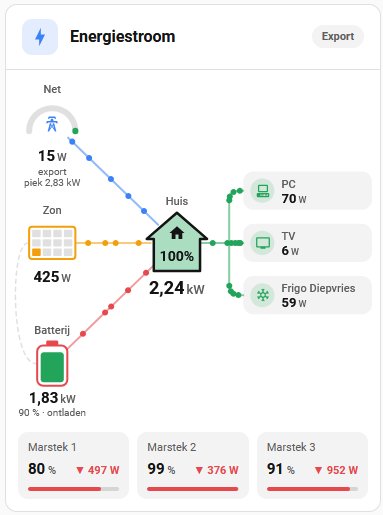
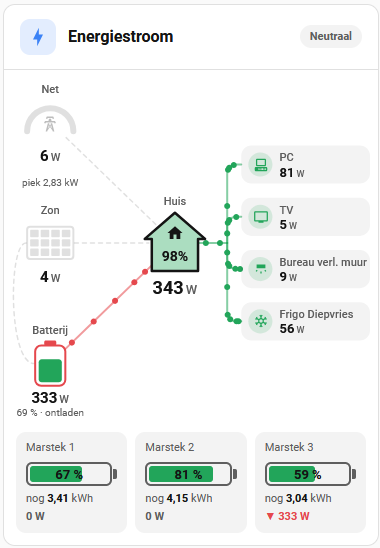
Translations nl/en/fr/de with language option, new screenshot v4.5.0

diff --git a/power-flow-card.js b/power-flow-card.js
@@ -1,5 +1,5 @@
 /**
- * Home Energy Flow Card v4.4.0   (vroeger: Power Flow Card)
+ * Home Energy Flow Card v4.5.0   (vroeger: Power Flow Card)
  *
  * Layout:
  *   Kop: icoon, titel, ondertitel met wat er gebeurt, pil met de nettoestand
@@ -14,6 +14,7 @@
  *
  * type: custom:home-energy-flow-card     # custom:power-flow-card werkt ook nog
  * title: Energiestroom
+ * language: fr                           # optioneel; nl / en / fr / de, standaard de taal van HA
  * show_summary: true                     # optioneel; korte samenvatting onder de titel (standaard uit)
  * solar_entity: sensor.solar_power
  * grid_entity: sensor.grid_power
@@ -42,7 +43,7 @@
  *     icon: mdi:desktop-classic
  */
 
-const PFC_VERSION = '4.4.0';
+const PFC_VERSION = '4.5.0';
 const PFC_WARN = '#f97316';       // net-afname nadert de piekgrens
 const PFC_OVER = '#dc2626';       // net-afname boven de piekgrens
 const PFC_BAT_LOW = 20, PFC_BAT_MID = 50;   // battery_style: battery → rood / oranje / groen
@@ -50,6 +51,35 @@ const PFC_BAT_W = 30, PFC_BAT_H = 40;       // batterijvorm (viewBox-eenheden), 
 const PFC_PANEL_W = 46, PFC_PANEL_H = 32, PFC_PANEL_COLS = 4, PFC_PANEL_ROWS = 3;   // solar_style: panel
 const PFC_GAUGE_R = 23;                     // grid_style: gauge
 const PFC_GREEN = '#22a55a';
+
+// Teksten per taal. De kaart volgt de taal van HA (of `language:`), anders Engels.
+const PFC_I18N = {
+  nl: { title: 'Energiestroom', solar: 'Zon', grid: 'Net', battery: 'Batterij', home: 'Huis',
+        import: 'Import', export: 'Export', neutral: 'Neutraal', peak_warn: 'Bijna piekgrens', peak_over: 'Boven piekgrens',
+        imp: 'import', exp: 'export', peak: 'piek', limit: 'grens',
+        charging: 'laden', discharging: 'ontladen', idle: 'rust', left: 'nog',
+        sum_solar: 'zon', sum_dis: 'batterij ontlaadt', sum_cha: 'batterij laadt', sum_grid: 'net', no_power: 'Geen stroom',
+        self_share: 'deel van het verbruik uit eigen zon en batterij', no_config: 'Geen configuratie' },
+  en: { title: 'Energy flow', solar: 'Solar', grid: 'Grid', battery: 'Battery', home: 'Home',
+        import: 'Import', export: 'Export', neutral: 'Neutral', peak_warn: 'Near peak limit', peak_over: 'Above peak limit',
+        imp: 'import', exp: 'export', peak: 'peak', limit: 'limit',
+        charging: 'charging', discharging: 'discharging', idle: 'idle', left: '',
+        sum_solar: 'solar', sum_dis: 'battery discharging', sum_cha: 'battery charging', sum_grid: 'grid', no_power: 'No power',
+        self_share: 'share of consumption from own solar and battery', no_config: 'No configuration' },
+  fr: { title: "Flux d'énergie", solar: 'Solaire', grid: 'Réseau', battery: 'Batterie', home: 'Maison',
+        import: 'Import', export: 'Export', neutral: 'Neutre', peak_warn: 'Proche du pic', peak_over: 'Au-dessus du pic',
+        imp: 'import', exp: 'export', peak: 'pic', limit: 'limite',
+        charging: 'charge', discharging: 'décharge', idle: 'repos', left: 'encore',
+        sum_solar: 'solaire', sum_dis: 'batterie se décharge', sum_cha: 'batterie se charge', sum_grid: 'réseau', no_power: 'Pas de courant',
+        self_share: 'part de la consommation venant du solaire et de la batterie', no_config: 'Aucune configuration' },
+  de: { title: 'Energiefluss', solar: 'Solar', grid: 'Netz', battery: 'Batterie', home: 'Haus',
+        import: 'Bezug', export: 'Einspeisung', neutral: 'Neutral', peak_warn: 'Nahe Spitzenlast', peak_over: 'Über Spitzenlast',
+        imp: 'Bezug', exp: 'Einspeisung', peak: 'Spitze', limit: 'Grenze',
+        charging: 'lädt', discharging: 'entlädt', idle: 'Ruhe', left: 'noch',
+        sum_solar: 'Solar', sum_dis: 'Batterie entlädt', sum_cha: 'Batterie lädt', sum_grid: 'Netz', no_power: 'Kein Strom',
+        self_share: 'Anteil des Verbrauchs aus eigener Solaranlage und Batterie', no_config: 'Keine Konfiguration' },
+};
+const pfcTaal = (l) => { l = String(l || '').toLowerCase().split(/[-_]/)[0]; return PFC_I18N[l] ? l : 'en'; };
 const PFC_CONSUMER_MIN_W = 5;     // een verbruiker telt als "aan" boven deze waarde
 const PFC_SPAWN_MS       = 420;   // om de hoeveel ms er nieuwe stippen vertrekken
 const PFC_POWER_UNITS    = { w: 1, kw: 1000, mw: 1e6 };
@@ -107,7 +137,7 @@ class HomeEnergyFlowCard extends HTMLElement {
   }
 
   setConfig(cfg) {
-    if (!cfg) throw new Error('Geen configuratie');
+    if (!cfg) throw new Error(PFC_I18N[this._taal()].no_config);
     const list = (v) => Array.isArray(v) ? v.filter(Boolean) : null;
     const num  = (v, d) => { const n = parseFloat(v); return isNaN(n) ? d : n; };
     const col  = cfg.colors || {};
@@ -141,7 +171,6 @@ class HomeEnergyFlowCard extends HTMLElement {
       peak_limit_entity: cfg.peak_limit_entity || null,
       peak_limit:        num(cfg.peak_limit, 0) || null,
       peak_warn_percent: Math.max(1, num(cfg.peak_warn_percent, 90)),
-      title:  cfg.title === false ? null : (cfg.title || 'Energiestroom'),
       icon:   cfg.icon || 'mdi:lightning-bolt',
       show_summary: cfg.show_summary === true,
       debounce_seconds: Math.max(0, num(cfg.debounce_seconds, 8)),
@@ -157,13 +186,10 @@ class HomeEnergyFlowCard extends HTMLElement {
           }))
         : [],
       colors,
-      labels: {
-        solar:   lab.solar   || 'Zon',
-        grid:    lab.grid    || 'Net',
-        battery: lab.battery || 'Batterij',
-        home:    lab.home    || 'Huis',
-      },
+      language: cfg.language || null,
     };
+    this._ruw = { title: cfg.title, labels: lab };
+    this._zetTaal();
     const c = this._cfg;
     this._entityIds = [
       c.solar_entity, c.grid_entity, c.home_entity, c.battery_entity, c.battery_soc_entity,
@@ -179,6 +205,12 @@ class HomeEnergyFlowCard extends HTMLElement {
 
   set hass(h) {
     this._hass = h;
+    // Taal van HA pas nu gekend (of gewijzigd): opnieuw tekenen in die taal.
+    if (this._cfg && !this._cfg.language && this._taal() !== this._lang) {
+      this._zetTaal();
+      this._seen = null;
+      this._buildDOM();
+    }
     // HA roept dit aan bij élke statuswijziging in het hele systeem: alleen werken als
     // één van onze sensoren veranderde.
     if (this._entityIds && this._seen) {
@@ -187,6 +219,27 @@ class HomeEnergyFlowCard extends HTMLElement {
     }
     if (this._entityIds) this._seen = this._entityIds.map(id => h.states[id]);
     this._updateData();
+  }
+
+  // ── Taal ───────────────────────────────────────────────────────────────────
+  _taal() {
+    const h = this._hass;
+    return pfcTaal((this._cfg && this._cfg.language)
+      || (h && ((h.locale && h.locale.language) || h.language))
+      || (typeof document !== 'undefined' && document.documentElement.lang)
+      || (typeof navigator !== 'undefined' && navigator.language));
+  }
+
+  // Titel en namen in de gekozen taal; eigen `title`/`labels` gaan altijd voor.
+  _zetTaal() {
+    this._lang = this._taal();
+    const T = this._T = PFC_I18N[this._lang];
+    const r = this._ruw, lab = r.labels;
+    this._cfg.title = r.title === false ? null : (r.title || T.title);
+    this._cfg.labels = {
+      solar: lab.solar || T.solar, grid: lab.grid || T.grid,
+      battery: lab.battery || T.battery, home: lab.home || T.home,
+    };
   }
 
   // ── Sensor helpers ─────────────────────────────────────────────────────────
@@ -531,7 +584,7 @@ class HomeEnergyFlowCard extends HTMLElement {
         omtrek.style.stroke = c.home;
         g.appendChild(omtrek);
         const pct = pfcEl('text', { x, y: y + 18, 'text-anchor': 'middle', class: 'huis-pct' }, '');
-        pct.appendChild(pfcEl('title', {}, 'deel van het verbruik uit eigen zon en batterij'));
+        pct.appendChild(pfcEl('title', {}, this._T.self_share));
         g.appendChild(pct);
         this._E.HUIS = { fill, pct, top: y - 30, bodem: y + 28 };
         icon('mdi:home', x, y - 9, 18, c.home);
@@ -696,7 +749,8 @@ class HomeEnergyFlowCard extends HTMLElement {
     state('solar', D.solar >= th);
 
     put(V.grid, D.gridRaw === null ? null : Math.abs(D.gridRaw));
-    if (S.grid) S.grid.textContent = D.gridRaw === null ? '' : D.imp >= th ? 'import' : D.exp >= th ? 'export' : '';
+    const T = this._T;
+    if (S.grid) S.grid.textContent = D.gridRaw === null ? '' : D.imp >= th ? T.imp : D.exp >= th ? T.exp : '';
     // Piekgrens: Net (cirkel, icoon, lijn en stippen) kleurt oranje of rood
     const gridCol = D.peakLevel === 'over' ? PFC_OVER : D.peakLevel === 'warn' ? PFC_WARN : cfg.colors.grid;
     if (E.N.grid) E.N.grid.col = gridCol;
@@ -704,15 +758,15 @@ class HomeEnergyFlowCard extends HTMLElement {
     this._gridCol = gridCol;
     state('grid', D.imp >= th || D.exp >= th);
     if (S.peak) {
-      S.peak.textContent = D.peak !== null ? 'piek ' + this._fmt(D.peak)
-                         : D.limit ? 'grens ' + this._fmt(D.limit) : '';
+      S.peak.textContent = D.peak !== null ? T.peak + ' ' + this._fmt(D.peak)
+                         : D.limit ? T.limit + ' ' + this._fmt(D.limit) : '';
       S.peak.style.fill = D.peakLevel ? gridCol : '';
     }
 
     put(V.bat, D.batRaw === null ? null : Math.abs(D.batRaw));
     if (S.bat) {
       const soc  = D.soc === null ? '' : Math.round(D.soc) + ' %';
-      const mode = D.dis >= th ? 'ontladen' : D.cha >= th ? 'laden' : '';
+      const mode = D.dis >= th ? T.discharging : D.cha >= th ? T.charging : '';
       S.bat.textContent = [soc, mode].filter(Boolean).join(' · ');
     }
     if (E.I.bat) {
@@ -765,31 +819,31 @@ class HomeEnergyFlowCard extends HTMLElement {
       const mode = d.p === null ? '' : d.p >= th ? 'dis' : d.p <= -th ? 'cha' : '';
       b.w.className = 'bat-w ' + mode;
       b.w.textContent = d.p === null ? '–' : (mode === 'dis' ? '▼ ' : mode === 'cha' ? '▲ ' : '') + this._fmt(Math.abs(d.p));
-      b.w.title = mode === 'dis' ? 'ontladen' : mode === 'cha' ? 'laden' : 'rust';
+      b.w.title = mode === 'dis' ? T.discharging : mode === 'cha' ? T.charging : T.idle;
       const soc = d.soc === null ? 0 : Math.max(0, Math.min(100, d.soc));
       b.bar.style.width = soc + '%';
       b.bar.style.background = d.soc === null ? '' : soc < PFC_BAT_LOW ? PFC_OVER : soc < PFC_BAT_MID ? '#f59e0b' : PFC_GREEN;
       b.kwh.style.display = d.kwh === null || d.kwh === undefined ? 'none' : '';
-      if (d.kwh !== null && d.kwh !== undefined) b.kwh.innerHTML = `nog <b>${this._nf(2).format(d.kwh)}</b> kWh`;
+      if (d.kwh !== null && d.kwh !== undefined) b.kwh.innerHTML = (T.left ? T.left + ' ' : '') + `<b>${this._nf(2).format(d.kwh)}</b> kWh`;
     });
 
     // ── Kop: wat gebeurt er? ──
     if (E.sub) {
       const parts = [];
-      if (D.solar >= th) parts.push('zon ' + this._fmt(D.solar));
-      if (D.dis >= th) parts.push('batterij ontlaadt');
-      else if (D.cha >= th) parts.push('batterij laadt');
+      if (D.solar >= th) parts.push(T.sum_solar + ' ' + this._fmt(D.solar));
+      if (D.dis >= th) parts.push(T.sum_dis);
+      else if (D.cha >= th) parts.push(T.sum_cha);
       // Richting (import/export) staat al in de pil, dus kort houden.
-      if (D.imp >= th) parts.push('net ' + this._fmt(D.imp));
-      else if (D.exp >= th) parts.push('net ' + this._fmt(D.exp));
-      let s = parts.join(' · ') || 'Geen stroom';
+      if (D.imp >= th) parts.push(T.sum_grid + ' ' + this._fmt(D.imp));
+      else if (D.exp >= th) parts.push(T.sum_grid + ' ' + this._fmt(D.exp));
+      let s = parts.join(' · ') || T.no_power;
       E.sub.textContent = s.charAt(0).toUpperCase() + s.slice(1);
       E.sub.title = E.sub.textContent;   // volledige tekst als het afgekapt wordt
     }
     if (E.pil) {
       E.pil.textContent = !cfg.grid_entity || D.gridRaw === null ? ''
-        : D.peakLevel === 'over' ? 'Boven piekgrens' : D.peakLevel === 'warn' ? 'Bijna piekgrens'
-        : D.imp >= th ? 'Import' : D.exp >= th ? 'Export' : 'Neutraal';
+        : D.peakLevel === 'over' ? T.peak_over : D.peakLevel === 'warn' ? T.peak_warn
+        : D.imp >= th ? T.import : D.exp >= th ? T.export : T.neutral;
       const pc = D.peakLevel === 'over' ? PFC_OVER : D.peakLevel === 'warn' ? PFC_WARN : null;
       E.pil.style.background = pc ? `color-mix(in srgb, ${pc} 15%, transparent)` : '';
       E.pil.style.color = pc || '';

diff --git a/README.md b/README.md
@@ -1,6 +1,6 @@
 # Home Energy Flow Card
 
-[![Version](https://img.shields.io/badge/version-4.4.0-blue.svg)](https://github.com/Toolifybe/ha-home-energy-flow-card)
+[![Version](https://img.shields.io/badge/version-4.5.0-blue.svg)](https://github.com/Toolifybe/ha-home-energy-flow-card)
 [![HACS](https://img.shields.io/badge/HACS-Custom-orange.svg)](https://hacs.xyz)
 
 Animated energy flow card for Home Assistant (formerly *Power Flow Card*). Visualises real-time energy flows between solar panels, grid, battery, home and individual consumers.
@@ -26,6 +26,7 @@ Animated energy flow card for Home Assistant (formerly *Power Flow Card*). Visua
   - grid gauge showing import against your peak limit (blue, orange, red) or export (green)
   - house that fills up with the share of consumption coming from your own solar and battery
 - Tap any circle, consumer or battery tile to open the standard Home Assistant more-info dialog with history
+- Speaks English, Dutch, French and German: follows the Home Assistant language automatically (or set `language`)
 - Configurable colours, labels, title and icon via YAML
 
 ---
@@ -73,7 +74,7 @@ Only set `home_entity` if you have a sensor that measures exactly that.
 
 ```yaml
 type: custom:home-energy-flow-card
-title: Energy Flow            # default: Energiestroom; use false to hide the header
+title: Energy Flow            # default: "Energy flow" in your language; use false to hide the header
 icon: mdi:lightning-bolt      # header icon
 
 # ── Sources ────────────────────────────────────────────────────────────────────
@@ -210,8 +211,9 @@ entities:
 
 | Option | Type | Default | Description |
 |--------|------|---------|-------------|
-| `title` | string / `false` | `Energiestroom` | Header title; `false` hides the header |
-| `show_summary` | boolean | `false` | Short text line under the title ("Zon 2,01 kW · net 300 W"); off by default because the diagram already shows it |
+| `title` | string / `false` | `Energy flow` (translated) | Header title; `false` hides the header |
+| `language` | `en` / `nl` / `fr` / `de` | HA language | Language of the card texts; other HA languages fall back to English |
+| `show_summary` | boolean | `false` | Short text line under the title ("Solar 2.01 kW · grid 300 W"); off by default because the diagram already shows it |
 | `icon` | string | `mdi:lightning-bolt` | Header icon |
 | `solar_entity` | entity | — | Solar power sensor (W) |
 | `grid_entity` | entity | — | Grid power sensor (W) |
@@ -237,10 +239,10 @@ entities:
 | `colors.battery` | colour | `#e5484d` | Battery colour |
 | `colors.home` | colour | `var(--primary-text-color)` | Home colour |
 | `colors.consumers` | colour | `#22a55a` | Default colour for consumers |
-| `labels.solar` | string | `Zon` | Solar node display name |
-| `labels.grid` | string | `Net` | Grid node display name |
-| `labels.battery` | string | `Batterij` | Battery node display name |
-| `labels.home` | string | `Huis` | Home node display name |
+| `labels.solar` | string | `Solar` (translated) | Solar node display name |
+| `labels.grid` | string | `Grid` (translated) | Grid node display name |
+| `labels.battery` | string | `Battery` (translated) | Battery node display name |
+| `labels.home` | string | `Home` (translated) | Home node display name |
 | `entities` | list | — | Individual consumer nodes |
 | `entities[].entity` | entity | — | Power sensor (W) |
 | `entities[].name` | string | entity id | Display name |
@@ -276,8 +278,8 @@ Browse icons at [pictogrammers.com](https://pictogrammers.com/library/mdi/). Con
 ## Layout
 
 ```
-  ┌ ⚡ Energiestroom ─────────────────────── [Export] ┐
-  │ Battery discharging · 27 W to the grid            │
+  ┌ ⚡ Energy flow ───────────────────────── [Export] ┐
+  │                                                   │
   │                                                   │
   │  (Grid)                       ┌[PC        80 W]   │
   │  (Solar) ────── (Home) ───────┼[TV        46 W]   │
@@ -312,6 +314,11 @@ Browse icons at [pictogrammers.com](https://pictogrammers.com/library/mdi/). Con
 ---
 
 ## Changelog
+
+### v4.5.0
+- The card now speaks English, Dutch, French and German. It follows the language of the Home Assistant user; other languages fall back to English
+- New option `language` (`en`, `nl`, `fr`, `de`) to force a language
+- Your own `title` and `labels` still take priority
 
 ### v4.4.0
 - Battery tiles redrawn: each tile shows a battery that fills with the state of charge (red below 20 %, orange below 50 %, green above) with the percentage inside
